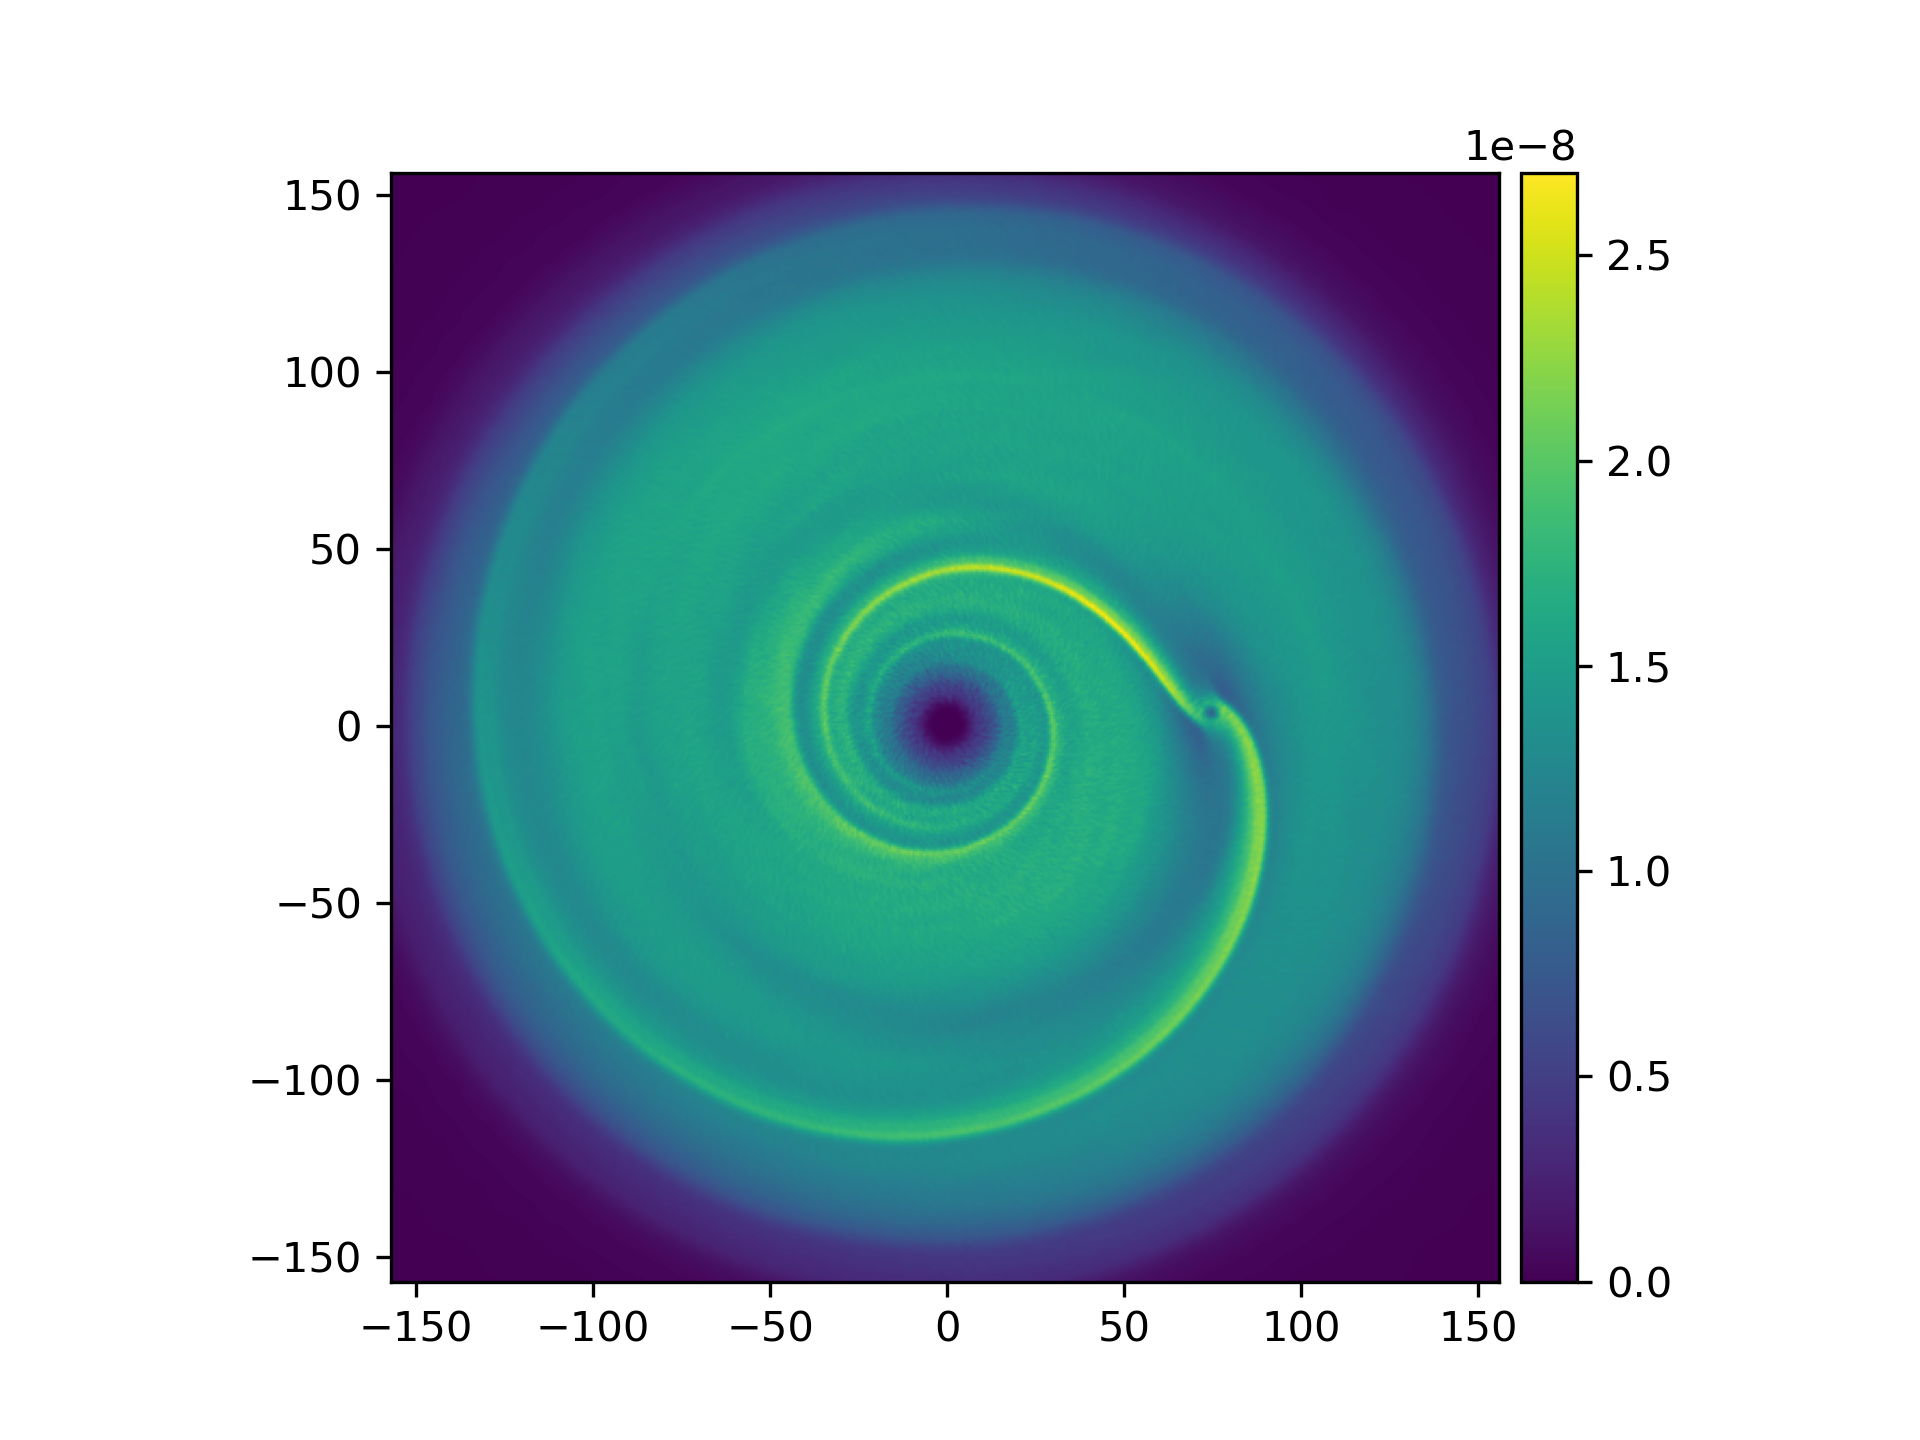
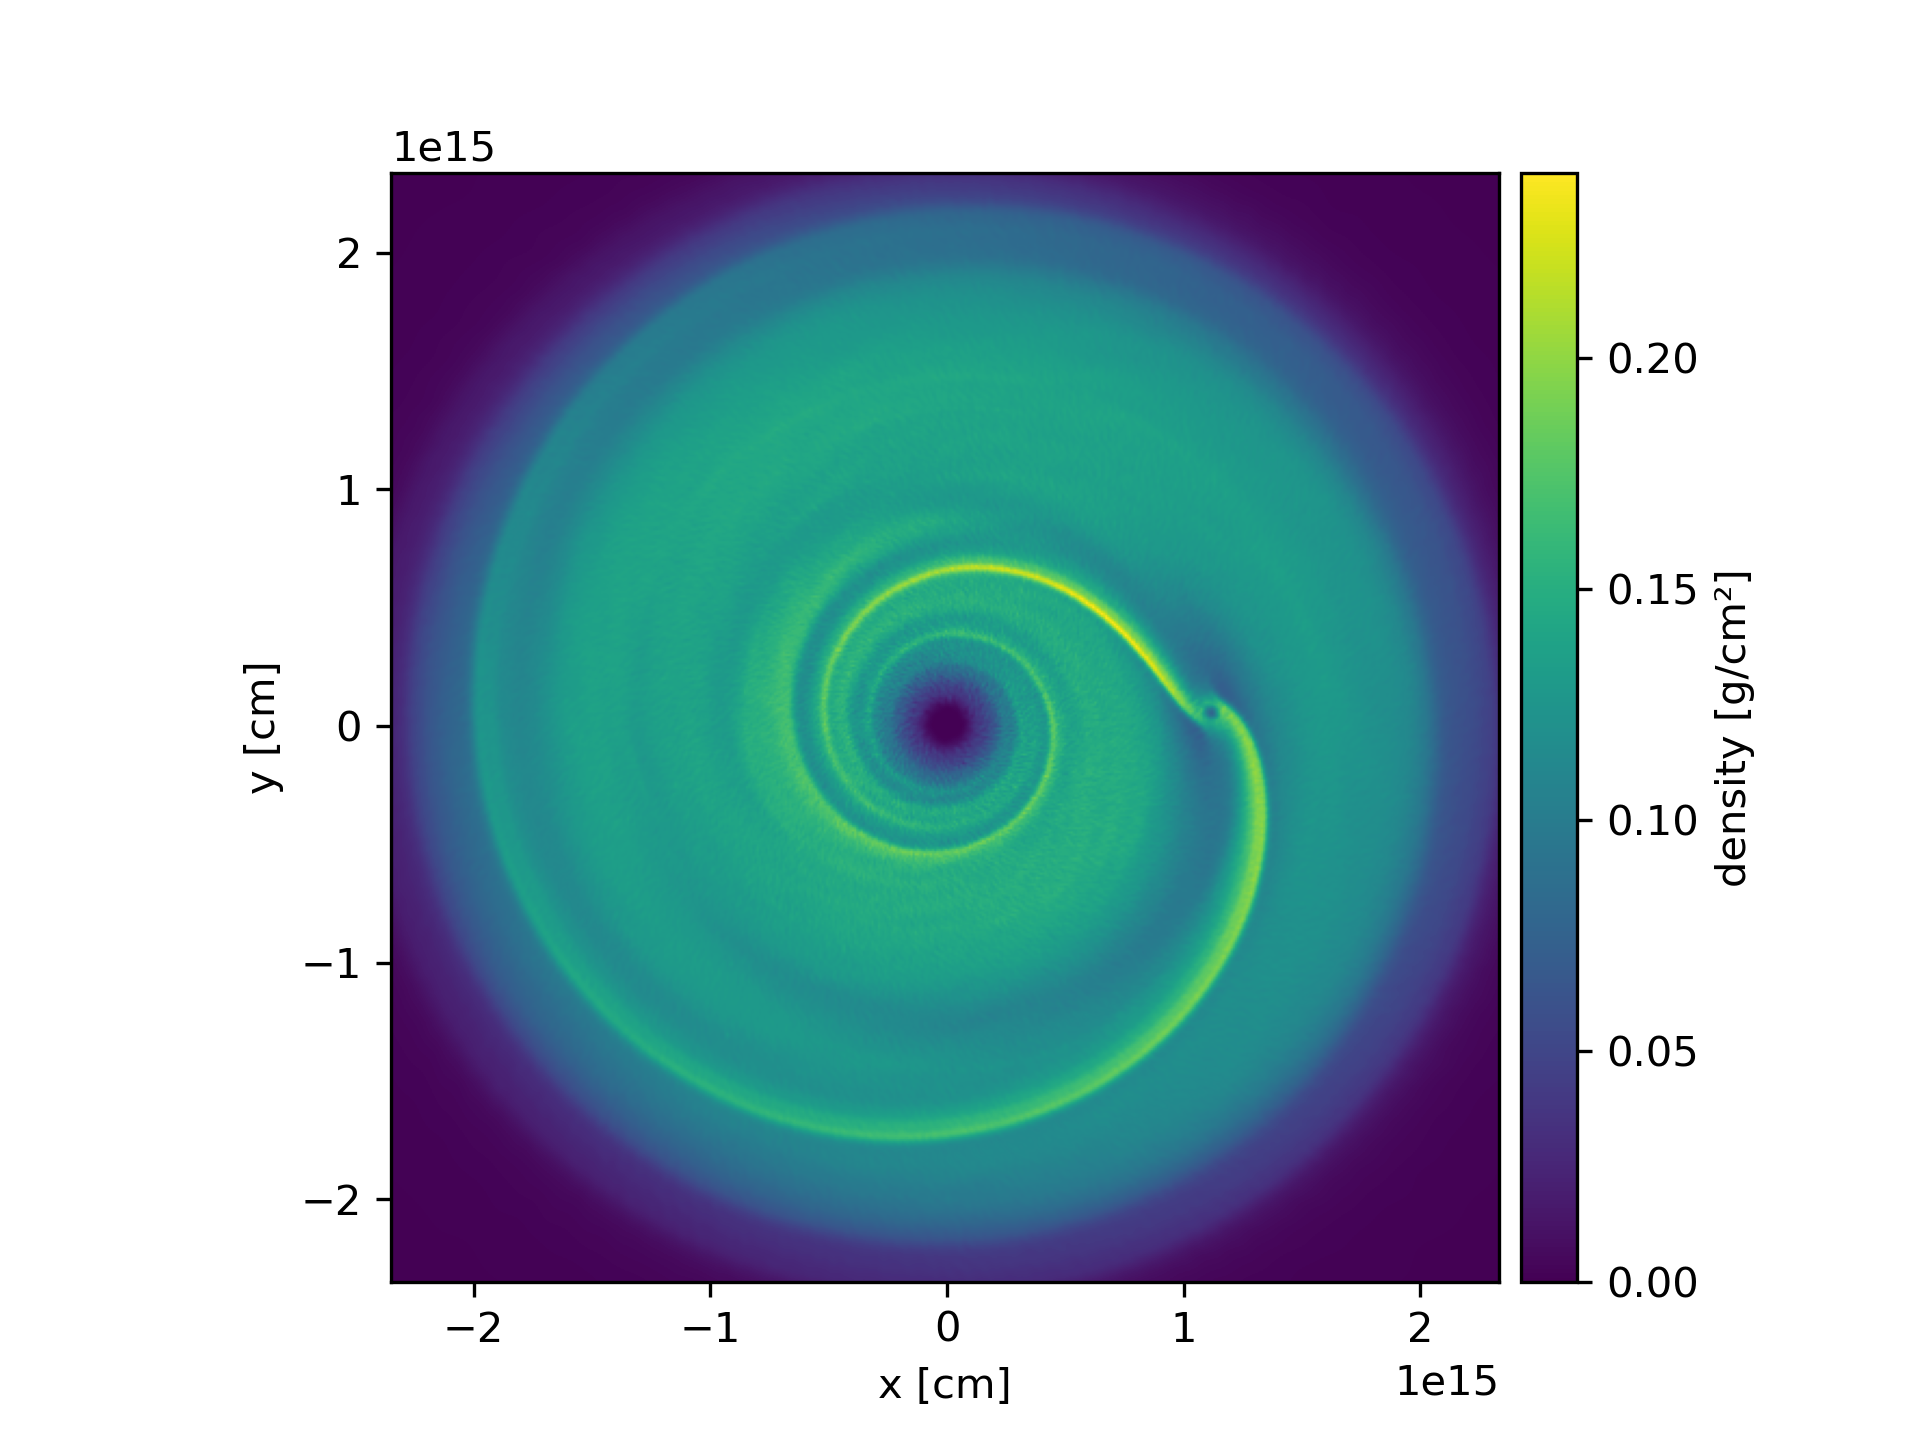
Update overview page in docs

diff --git a/docs/source/overview.rst b/docs/source/overview.rst
@@ -72,13 +72,13 @@ You can access arrays by their name passed in as a string.
 .. code-block:: pycon
 
     >>> snap['position']
-    array([[ -24.69953214,   49.60113417,   -4.98059478],
-           [-108.99243136,   77.74663833,   12.89299546],
-           [ -51.22218782,  108.64454019,    1.56619644],
+    array([[-3.69505001e+14,  7.42032967e+14, -7.45096980e+13],
+           [-1.63052677e+15,  1.16308971e+15,  1.92879212e+14],
+           [-7.66283930e+14,  1.62532232e+15,  2.34302988e+13],
            ...,
-           [  93.296599  ,  -77.66042087,    5.40835798],
-           [  63.75108128,   66.7446782 ,    3.30169363],
-           [   8.11639008,  139.45117413,    7.55340187]])
+           [ 1.39571712e+15, -1.16179990e+15,  8.09090354e+13],
+           [ 9.53716176e+14,  9.98500386e+14,  4.93933367e+13],
+           [ 1.21421196e+14,  2.08618956e+15,  1.12998892e+14]]) <Unit('centimeter')>
 
 There may be a small delay as the data is read from file. After the array is
 read from file it is cached in memory, so that subsequent calls are faster.
@@ -119,13 +119,13 @@ to use the name `'coordinate'` rather than `'position',` use the
 
     >>> snap.add_alias(name='position', alias='coordinate')
     >>> snap['coordinate']
-    array([[ -24.69953214,   49.60113417,   -4.98059478],
-           [-108.99243136,   77.74663833,   12.89299546],
-           [ -51.22218782,  108.64454019,    1.56619644],
+    array([[-3.69505001e+14,  7.42032967e+14, -7.45096980e+13],
+           [-1.63052677e+15,  1.16308971e+15,  1.92879212e+14],
+           [-7.66283930e+14,  1.62532232e+15,  2.34302988e+13],
            ...,
-           [  93.296599  ,  -77.66042087,    5.40835798],
-           [  63.75108128,   66.7446782 ,    3.30169363],
-           [   8.11639008,  139.45117413,    7.55340187]])
+           [ 1.39571712e+15, -1.16179990e+15,  8.09090354e+13],
+           [ 9.53716176e+14,  9.98500386e+14,  4.93933367e+13],
+           [ 1.21421196e+14,  2.08618956e+15,  1.12998892e+14]]) <Unit('centimeter')>
 
 The :py:class:`Snap` object has a :py:attr:`properties` attribute which is a
 dictionary of metadata, i.e. non-array data, on the snapshot.
@@ -137,22 +137,23 @@ dictionary of metadata, i.e. non-array data, on the snapshot.
 
 
     >>> list(snap.properties)
-    ['time',
-     'smoothing_length_factor',
-     'adiabatic_index',
-     'polytropic_constant',
-     'equation_of_state',
-     'sound_speed_index',
+    ['adiabatic_index',
      'dust_method',
+     'equation_of_state',
+     'grain_density',
      'grain_size',
-     'grain_density']
+     'smoothing_length_factor',
+     'time',
+     'unit_length',
+     'unit_mass',
+     'unit_time']
 
-Units are available vis the :py:attr:`units` attribute. We make use of the
-Python units library Pint.
+Units are available in the properties. We make use of the Python units library
+Pint.
 
 .. code-block:: pycon
 
-    >>> snap.units['length']
+    >>> snap.properties['unit_length']
     14960000000000.0 <Unit('centimeter')>
 
 Sink particles are handled separately from the fluid, e.g. gas or dust,
@@ -174,8 +175,9 @@ particles. They are available as an attribute.
     <plonk.snap sinks>
 
     >>> snap.sinks['spin']
-    array([[ 4.02648711e-10, -1.33037173e-09,  2.75977043e-06],
-           [ 4.67205458e-10,  1.34400022e-10,  2.96253856e-07]])
+    array([[ 3.56866999e+43, -1.17910663e+44,  2.44598074e+47],
+           [ 4.14083556e+43,  1.19118555e+43,  2.62569386e+46]]) <Unit('centimeter ** 2 * gram / second')>
+
 
 ~~~~~~~~~~
 Simulation
@@ -202,7 +204,11 @@ the first five snapshots with the following.
 .. code-block:: pycon
 
     >>> sim.snaps[:5]
-    [<plonk.Snap>, <plonk.Snap>, <plonk.Snap>, <plonk.Snap>, <plonk.Snap>]
+    [<plonk.Snap "disc_00000.h5">,
+     <plonk.Snap "disc_00001.h5">,
+     <plonk.Snap "disc_00002.h5">,
+     <plonk.Snap "disc_00003.h5">,
+     <plonk.Snap "disc_00004.h5">]
 
 The :py:class:`Simulation` class has attributes :py:attr:`global_quantities` and
 :py:attr:`sink_quantities` which are pandas DataFrames discussed in the next
@@ -295,7 +301,7 @@ For example, we can change the colorbar limits.
 
 .. code-block:: pycon
 
-    >>> ax.images[0].set_clim(vmax=1.5e-8)
+    >>> ax.images[0].set_clim(vmax=0.15)
 
 Alternatively, you can pass keyword arguments to the matplotlib functions. For
 example, we set the colormap to 'gist_heat' and set the colorbar minimum and
@@ -303,13 +309,14 @@ maxiumum. In addition, we set the extent, i.e. the x- and y-limits.
 
 .. code-block:: pycon
 
+    >>> au = plonk.units('au')
     >>> plonk.visualize.plot(
     ...     snap=snap,
     ...     quantity='density',
-    ...     extent=(20, 120, -50, 50),
+    ...     extent=(20, 120, -50, 50) * au,
     ...     cmap='gist_heat',
-    ...     vmin=1.0e-8,
-    ...     vmax=2.5e-8,
+    ...     vmin=0.1,
+    ...     vmax=0.2,
     ... )
 
 .. figure:: _static/density_zoom.png
@@ -347,18 +354,20 @@ You can access arrays on the :py:class:`SubSnap` objects as for any
 .. code-block:: pycon
 
     >>> gas['mass']
-    array([1.e-09, 1.e-09, 1.e-09, ..., 1.e-09, 1.e-09, 1.e-09])
+    array([1.9891e+24, 1.9891e+24, 1.9891e+24, ..., 1.9891e+24, 1.9891e+24,
+           1.9891e+24]) <Unit('gram')>
     >>> dust['mass']
-    array([1.e-10, 1.e-10, 1.e-10, ..., 1.e-10, 1.e-10, 1.e-10])
+    array([1.9891e+23, 1.9891e+23, 1.9891e+23, ..., 1.9891e+23, 1.9891e+23,
+           1.9891e+23]) <Unit('gram')>
 
 Let's plot the gas and dust side-by-side.
 
 .. code-block:: pycon
 
     >>> subsnaps = [gas, dust]
-    >>> extent = (-200, 200, -200, 200)
+    >>> extent = (-200, 200, -200, 200) * au
 
-    >>> fig, axs = plt.subplots(ncols=2, figsize=(12, 5))
+    >>> fig, axs = plt.subplots(ncols=2, figsize=(14, 5))
 
     >>> for subsnap, ax in zip(subsnaps, axs):
     ...     plonk.visualize.plot(
@@ -420,8 +429,6 @@ After calling :py:meth:`extra_quantities`:
      'polar_angle',
      'position',
      'pressure',
-     'radial_velocity_cylindrical',
-     'radial_velocity_spherical',
      'radius_cylindrical',
      'radius_spherical',
      'semi_major_axis',
@@ -435,7 +442,9 @@ After calling :py:meth:`extra_quantities`:
      'timestep',
      'type',
      'velocity',
-     'velocity_divergence')
+     'velocity_divergence',
+     'velocity_radial_cylindrical',
+     'velocity_radial_spherical')
 
 You can create a new, derived array on the particles as follows.
 
@@ -443,8 +452,8 @@ You can create a new, derived array on the particles as follows.
 
     >>> snap['rad'] = np.sqrt(snap['x'] ** 2 + snap['y'] ** 2)
     >>> snap['rad']
-    array([ 55.41064337, 133.88013245, 120.11389861, ..., 121.38944087,
-            92.29871306, 139.68717104])
+    array([8.28943225e+14, 2.00284678e+15, 1.79690392e+15, ...,
+           1.81598604e+15, 1.38078875e+15, 2.08972008e+15]) <Unit('centimeter')>
 
 Where, here, we have used the fact that Plonk knows that 'x' and 'y' refer to
 the x- and y-components of the position array.
@@ -459,36 +468,21 @@ the decorator :py:meth:`add_array`.
     ...     radius = np.hypot(snap['x'], snap['y'])
     ...     return radius
     >>> snap['radius']
-    array([ 55.41064337, 133.88013245, 120.11389861, ..., 121.38944087,
-            92.29871306, 139.68717104])
+    array([8.28943225e+14, 2.00284678e+15, 1.79690392e+15, ...,
+           1.81598604e+15, 1.38078875e+15, 2.08972008e+15]) <Unit('centimeter')>
 
 ~~~~~
 Units
 ~~~~~
 
-Plonk uses Pint to set arrays to physical units if requested. To set physical
-units on a Snap use the :py:meth:`physical_units` method. Before calling this
-method accessing an array returns dimensionless quantities as pure NumPy arrays.
+Plonk uses Pint to set arrays to physical units.
 
 .. code-block:: pycon
 
     >>> snap = plonk.load_snap(filename)
     >>> snap['x']
-    array([ -24.69953214, -108.99243136,  -51.22218782, ...,   93.296599  ,
-             63.75108128,    8.11639008])
-
-After calling the method, the Snap object returns a dimensional Pint NumPy
-array.
-
-.. code-block:: pycon
-
-    >>> snap.physical_units()
-    <plonk.Snap "disc_00030.h5">
-
-    >>> snap['x']
     array([-3.69505001e+14, -1.63052677e+15, -7.66283930e+14, ...,
-            1.39571712e+15,  9.53716176e+14,  1.21421196e+14])
-            <Unit('centimeter')>
+            1.39571712e+15,  9.53716176e+14,  1.21421196e+14]) <Unit('centimeter')>
 
 It is easy to convert quantities to different units as required.
 
@@ -512,7 +506,7 @@ module.
 .. code-block:: pycon
 
     >>> snap = plonk.load_snap(filename)
-    >>> prof = plonk.load_profile(snap, radius_min=10, radius_max=200)
+    >>> prof = plonk.load_profile(snap, radius_min='10 au', radius_max='200 au')
     >>> prof
     <plonk.Profile "disc_00030.h5">
 
@@ -559,26 +553,31 @@ To load a profile, simply call it.
 .. code-block:: pycon
 
     >>> prof['scale_height']
-    array([ 0.53283753,  0.65764182,  0.79408015,  0.91948552,  1.05275657,
-            1.19910797,  1.33466997,  1.47654871,  1.64732439,  1.76206771,
-            1.94608708,  2.08498252,  2.24052702,  2.39586258,  2.5815438 ,
-            2.73854455,  2.90642329,  3.08239663,  3.25909891,  3.39284713,
-            3.60151558,  3.77018252,  3.93425341,  4.11471983,  4.24600827,
-            4.51327863,  4.64383865,  4.89879019,  5.11922576,  5.32091328,
-            5.52735314,  5.58588938,  5.72802886,  6.00948951,  6.19699728,
-            6.32043944,  6.45868268,  6.78789496,  7.05552829,  7.19803381,
-            7.40436514,  7.62167875,  7.83422083,  8.02428074,  8.27231498,
-            8.34181189,  8.61131356,  8.77530896,  8.93144387,  8.99957151,
-            9.10605349,  9.31639016,  9.47826435,  9.81047539, 10.10202751,
-           10.32575742, 10.58213179, 10.71664894, 10.92376666, 10.99119008,
-           11.0977605 , 11.22392149, 11.26310651, 11.26604129, 11.45173308,
-           11.45583652, 11.74667361, 11.97488631, 12.28016749, 12.6217536 ,
-           12.90474017, 13.25549672, 13.72867804, 14.15111498, 14.32770244,
-           14.82836422, 15.1799221 , 15.8092354 , 15.98101886, 16.98468088,
-           17.44175012, 17.70165462, 18.31503516, 20.35168145, 20.96849404,
-           22.54955487, 23.53261191, 24.6949161 , 25.96108252, 25.67383453,
-           26.756722  , 29.19929018, 29.10519735, 29.72592619, 29.91977865,
-           32.27018866, 31.03985657, 33.09624188, 34.62309031, 35.38158365])
+    array([7.97124951e+12, 9.84227660e+12, 1.18761140e+13, 1.37555034e+13,
+           1.57492383e+13, 1.79386553e+13, 1.99666627e+13, 2.20898696e+13,
+           2.46311866e+13, 2.63718852e+13, 2.91092881e+13, 3.11944125e+13,
+           3.35101091e+13, 3.58479038e+13, 3.86137691e+13, 4.09731915e+13,
+           4.34677739e+13, 4.61230912e+13, 4.87471032e+13, 5.07589421e+13,
+           5.38769961e+13, 5.64068787e+13, 5.88487300e+13, 6.15197082e+13,
+           6.35591229e+13, 6.75146081e+13, 6.94786320e+13, 7.32840731e+13,
+           7.65750662e+13, 7.96047221e+13, 8.26764128e+13, 8.35658042e+13,
+           8.57126522e+13, 8.99037935e+13, 9.26761324e+13, 9.45798955e+13,
+           9.65997944e+13, 1.01555592e+14, 1.05554201e+14, 1.07641999e+14,
+           1.10797835e+14, 1.13976869e+14, 1.17181502e+14, 1.20083661e+14,
+           1.23779947e+14, 1.24785058e+14, 1.28800980e+14, 1.31290341e+14,
+           1.33602542e+14, 1.34618607e+14, 1.36220344e+14, 1.39412340e+14,
+           1.41778445e+14, 1.46713623e+14, 1.51140364e+14, 1.54496807e+14,
+           1.58327631e+14, 1.60316504e+14, 1.63374960e+14, 1.64446331e+14,
+           1.66063803e+14, 1.67890856e+14, 1.68505873e+14, 1.68507230e+14,
+           1.71353612e+14, 1.71314330e+14, 1.75704484e+14, 1.79183025e+14,
+           1.83696336e+14, 1.88823477e+14, 1.93080810e+14, 1.98301979e+14,
+           2.05279086e+14, 2.11912539e+14, 2.14224572e+14, 2.21647741e+14,
+           2.27153917e+14, 2.36605186e+14, 2.38922067e+14, 2.53901104e+14,
+           2.61297334e+14, 2.64782574e+14, 2.73832897e+14, 3.04654121e+14,
+           3.13575612e+14, 3.37636281e+14, 3.51482502e+14, 3.69591185e+14,
+           3.88308614e+14, 3.83982313e+14, 4.00147149e+14, 4.37288049e+14,
+           4.35330982e+14, 4.44686164e+14, 4.47133547e+14, 4.83307604e+14,
+           4.63783507e+14, 4.95119779e+14, 5.17961431e+14, 5.29308491e+14]) <Unit('centimeter')>
 
 You can convert the data in the :py:class:`Profile` object to a pandas DataFrame
 with the :py:meth:`to_dataframe` method. This takes all loaded profiles and puts
@@ -594,33 +593,31 @@ them into the DataFrame.
     ...    'surface_density',
     ...    'scale_height',
     ... )
-    >>> for p in profiles:
-    ...     prof[p]
     >>> df = prof.to_dataframe(columns=profiles)
     >>> df
-        radius  angular_momentum_phi  angular_momentum_theta  surface_density  scale_height
-    0    10.95             -0.019731                0.049709     5.468106e-09      0.532838
-    1    12.85              1.930775                0.053272     7.105422e-09      0.657642
-    2    14.75              1.285037                0.056002     9.089863e-09      0.794080
-    3    16.65             -2.958286                0.057931     1.075723e-08      0.919486
-    4    18.55             -1.947547                0.059679     1.233050e-08      1.052757
-    ..     ...                   ...                     ...              ...           ...
-    95  191.45              3.020196                0.168752     1.566369e-10     32.270189
-    96  193.35             -0.099051                0.161859     1.485992e-10     31.039857
-    97  195.25             -0.217485                0.169546     1.244152e-10     33.096242
-    98  197.15             -1.305261                0.175302     1.278899e-10     34.623090
-    99  199.05              2.642077                0.176867     1.199359e-10     35.381584
+         radius [cm]  angular_momentum_phi [rad]  angular_momentum_theta [rad]  surface_density [g / cm ** 2]  scale_height [cm]
+    0   1.638097e+14                   -0.019731                      0.049709                       0.048601       7.971250e+12
+    1   1.922333e+14                    1.914841                      0.053297                       0.063095       9.842277e+12
+    2   2.206569e+14                    1.293811                      0.055986                       0.080842       1.187611e+13
+    3   2.490805e+14                   -2.958286                      0.057931                       0.095611       1.375550e+13
+    4   2.775041e+14                   -1.947547                      0.059679                       0.109594       1.574924e+13
+    ..           ...                         ...                           ...                            ...                ...
+    95  2.864051e+15                    3.045660                      0.168944                       0.001388       4.833076e+14
+    96  2.892475e+15                   -0.054956                      0.161673                       0.001325       4.637835e+14
+    97  2.920898e+15                   -0.217485                      0.169546                       0.001106       4.951198e+14
+    98  2.949322e+15                   -1.305261                      0.175302                       0.001137       5.179614e+14
+    99  2.977746e+15                    2.642077                      0.176867                       0.001066       5.293085e+14
 
     [100 rows x 5 columns]
 
-Then we can use pandas plotting methods.
+We can also plot the profiles.
 
 .. code-block:: pycon
 
     >>> with plt.style.context('seaborn'):
     ...     fig, axs = plt.subplots(ncols=2, figsize=(12, 5))
-    ...     df.plot('radius', 'surface_density', ax=axs[0])
-    ...     df.plot('radius', 'scale_height', ax=axs[1])
+    ...     prof.plot('radius', 'surface_density', x_unit='au', y_unit='g/cm^2', ax=axs[0])
+    ...     prof.plot('radius', 'scale_height', x_unit='au', y_unit='au', ax=axs[1])
 
 .. figure:: _static/profile.png
 
